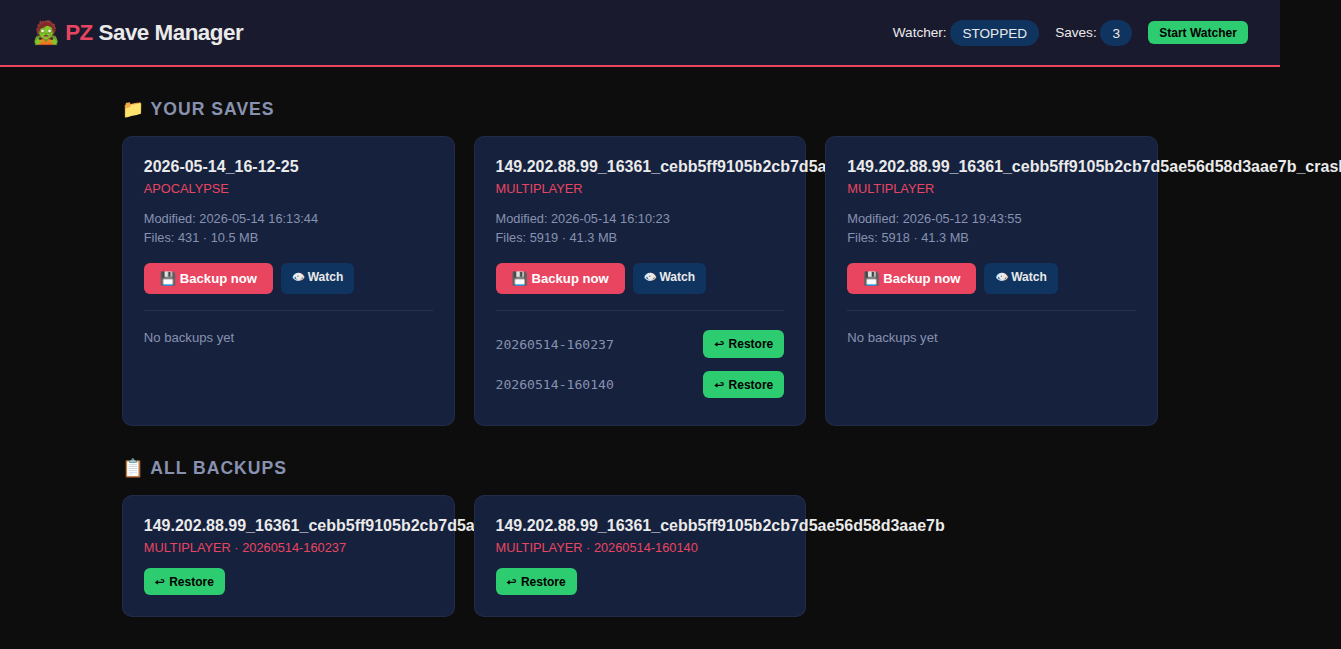
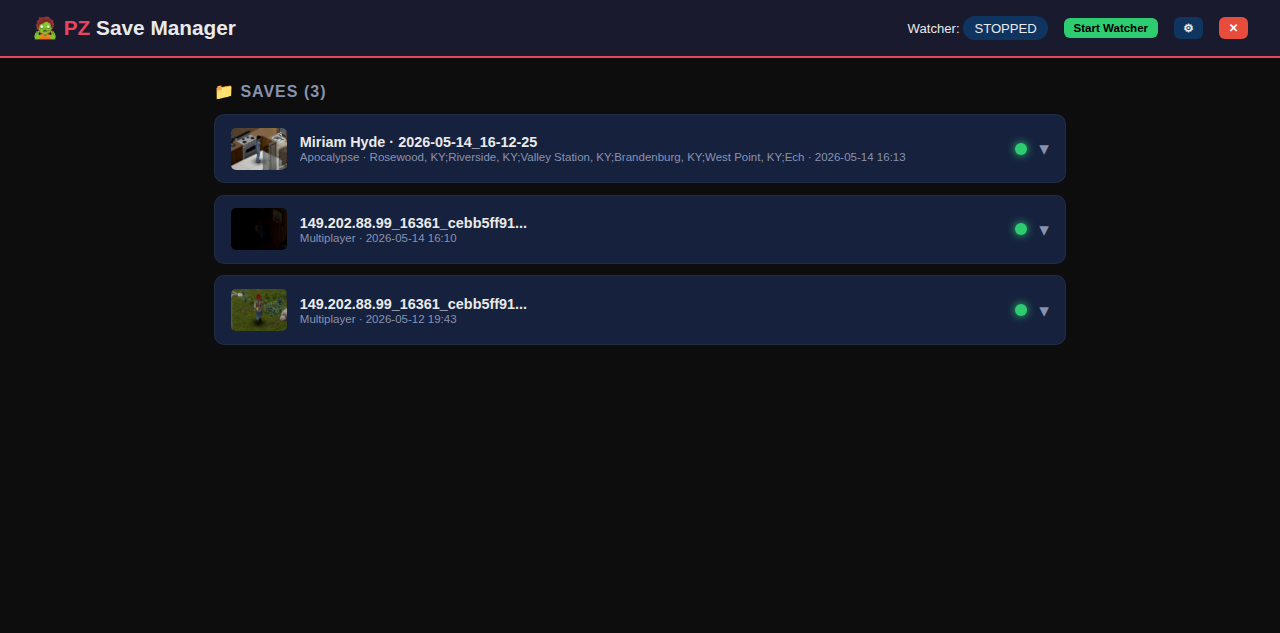
fix: truncate long names, shorter compact cards, cleaner layout + new screenshots

diff --git a/src/pz_save_manager/gui.py b/src/pz_save_manager/gui.py
@@ -36,10 +36,10 @@ h2{font-size:1rem;margin-bottom:.8rem;color:var(--muted);text-transform:uppercas
 .card{background:var(--card);border-radius:var(--radius);border:1px solid rgba(255,255,255,.05);margin-bottom:.7rem;overflow:hidden;transition:border .15s}
 .card:hover{border-color:rgba(255,255,255,.15)}
 .card-header{display:flex;align-items:center;padding:.8rem 1rem;cursor:pointer;gap:.8rem;user-select:none}
-.card-header .thumb{width:72px;height:54px;border-radius:6px;object-fit:cover;flex-shrink:0;background:var(--accent2)}
-.card-header .info{flex:1;min-width:0}
-.card-header .info .name{font-weight:600;font-size:.95rem;white-space:nowrap;overflow:hidden;text-overflow:ellipsis}
-.card-header .info .sub{font-size:.78rem;color:var(--muted);margin-top:2px}
+.card-header .thumb{width:56px;height:42px;border-radius:5px;object-fit:cover;flex-shrink:0;background:var(--accent2)}
+.card-header .info{flex:1;min-width:0;overflow:hidden}
+.card-header .info .name{font-weight:600;font-size:.9rem;white-space:nowrap;overflow:hidden;text-overflow:ellipsis}
+.card-header .info .sub{font-size:.72rem;color:var(--muted);margin-top:1px;white-space:nowrap;overflow:hidden;text-overflow:ellipsis}
 .card-header .status-dot{width:12px;height:12px;border-radius:50%;flex-shrink:0}
 .status-alive{background:var(--green);box-shadow:0 0 8px var(--green)}
 .status-dead{background:var(--dead)}
@@ -81,10 +81,10 @@ h2{font-size:1rem;margin-bottom:.8rem;color:var(--muted);text-transform:uppercas
 {% for save in saves %}
 <div class="card" id="save-{{loop.index}}">
 <div class="card-header" onclick="this.parentElement.classList.toggle('open')">
-{% if save.has_thumbnail %}<img src="/thumb/{{save.game_mode}}/{{save.name}}" class="thumb" loading="lazy">{% else %}<div class="thumb"></div>{% endif %}
+{% if save.has_thumbnail %}<img src="/thumb/{{save.game_mode}}/{{save.full_name}}" class="thumb" loading="lazy">{% else %}<div class="thumb"></div>{% endif %}
 <div class="info">
-<div class="name">{% if save.player %}{{save.player}} · {% endif %}{{save.name}}</div>
-<div class="sub">{{save.game_mode}}{% if save.map_name %} · {{save.map_name}}{% endif %} · {{save.modified}}{% if save.size_mb %} · {{save.size_mb}} MB{% endif %}</div>
+<div class="name" title="{{save.full_name}}">{% if save.player %}{{save.player}} · {% endif %}{{save.name}}</div>
+<div class="sub">{{save.game_mode}}{% if save.map_name %} · {{save.map_name}}{% endif %} · {{save.modified}}</div>
 </div>
 <div class="status-dot {% if save.player_dead is none %}status-unknown{% elif save.player_dead %}status-dead{% else %}status-alive{% endif %}" title="{% if save.player_dead is none %}Unknown{% elif save.player_dead %}Dead{% else %}Alive{% endif %}"></div>
 <span class="arrow">▾</span>
@@ -105,15 +105,15 @@ h2{font-size:1rem;margin-bottom:.8rem;color:var(--muted);text-transform:uppercas
 {% if save.players %}<div class="detail-item"><strong>Players</strong> {{save.players}}</div>{% endif %}
 </div>
 <div class="actions">
-<button class="btn btn-accent" onclick="event.stopPropagation();backup('{{save.game_mode}}','{{save.name}}',this)">💾 Backup</button>
-<button class="btn btn-sm" style="background:var(--accent2);color:var(--text)" onclick="event.stopPropagation();toggleWatch('{{save.game_mode}}','{{save.name}}',this)">{{'⏸ Unwatch' if save.watched else '👁 Watch'}}</button>
+<button class="btn btn-accent" onclick="event.stopPropagation();backup('{{save.game_mode}}','{{save.full_name}}',this)">💾 Backup</button>
+<button class="btn btn-sm" style="background:var(--accent2);color:var(--text)" onclick="event.stopPropagation();toggleWatch('{{save.game_mode}}','{{save.full_name}}',this)">{{'⏸ Unwatch' if save.watched else '👁 Watch'}}</button>
 </div>
 <div class="backup-list">
 <div style="font-size:.8rem;color:var(--muted);margin-bottom:.3rem">Backups:</div>
 {% if save.backups %}
 {% for b in save.backups[:5] %}
 <div class="backup-item">
-<span class="ts">{{b.age}} · {{b.size}} · {{b.files}} files {% if b.auto %}🤖{% endif %}</span>
+<span class="ts">{{b.age}} · {{b.size}} {% if b.auto %}🤖{% endif %}</span>
 <span style="flex:1"></span>
 <button class="btn btn-sm btn-green" onclick="event.stopPropagation();restore('{{b.game_mode}}','{{b.save_name}}','{{b.timestamp}}',this)">↩</button>
 </div>
@@ -157,6 +157,8 @@ function shutdown(){if(confirm('Close PZ Save Manager?')){api('POST','/api/shutd
 
 def _save_info(save: SaveGame, manager: WatcherManager) -> dict:
     path = save.path
+    # Truncate display name for compact view
+    short_name = save.name if len(save.name) <= 32 else save.name[:29] + "..."
     try:
         file_count = sum(1 for _ in path.rglob("*") if _.is_file())
         total_size = sum(_.stat().st_size for _ in path.rglob("*") if _.is_file())
@@ -167,7 +169,7 @@ def _save_info(save: SaveGame, manager: WatcherManager) -> dict:
     backups = list_backups(save.game_mode, save.name)
     extra = extract_all(path)
     info = {
-        "game_mode": save.game_mode, "name": save.name,
+        "game_mode": save.game_mode, "name": short_name, "full_name": save.name,
         "modified": modified, "file_count": file_count,
         "size_mb": round(total_size / (1024 * 1024), 1),
         "has_thumbnail": extra.get("has_thumbnail", False),
